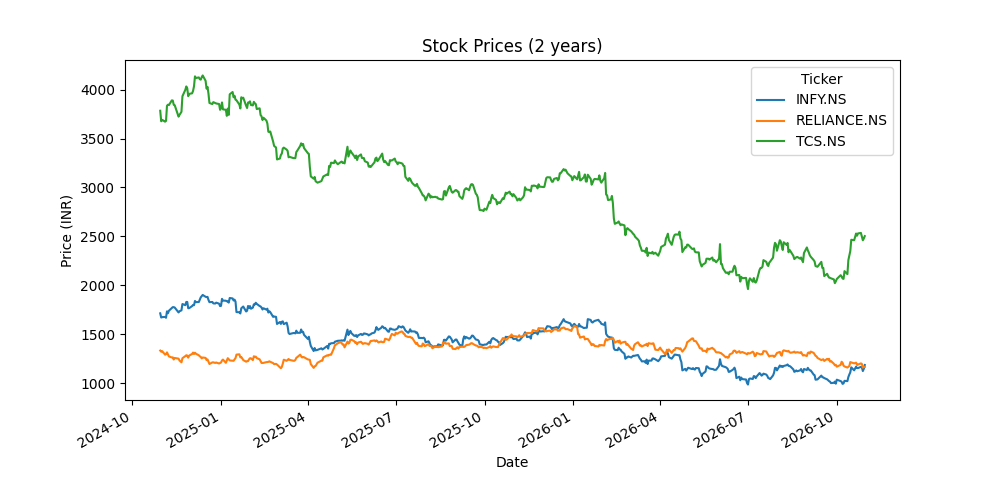
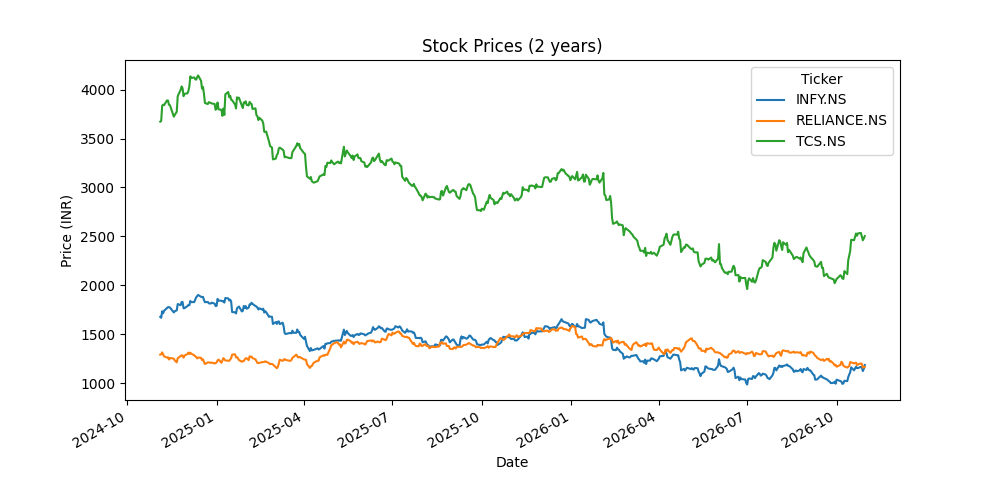
Add max drawdown, correlation, NumPy

diff --git a/risk_analyzer.py b/risk_analyzer.py
@@ -1,4 +1,5 @@
 import yfinance as yf
+import numpy as np
 
 # NSE tickers end with .NS
 stocks = ["RELIANCE.NS", "TCS.NS", "INFY.NS"]
@@ -20,7 +21,7 @@ print("Daily volatility:")
 print(volatility)
 
 # Saal bhar ka number (finance mein yahi dikhate hain)
-annual_volatility = volatility * (252 ** 0.5)
+annual_volatility = volatility * np.sqrt(252)
 print("Annual volatility:")
 print(annual_volatility)
 
@@ -28,6 +29,19 @@ print(annual_volatility)
 var_95 = returns.quantile(0.05)
 print("95% VaR (daily):")
 print(var_95)
+
+# Max drawdown = biggest fall from a previous peak
+cumulative = (1 + returns).cumprod()
+running_max = cumulative.cummax()
+drawdown = (cumulative - running_max) / running_max
+max_drawdown = drawdown.min()
+print("Max drawdown:")
+print(max_drawdown)
+
+# Correlation = how much the stocks move together
+correlation = returns.corr()
+print("Correlation:")
+print(correlation)
 
 import matplotlib.pyplot as plt
 
